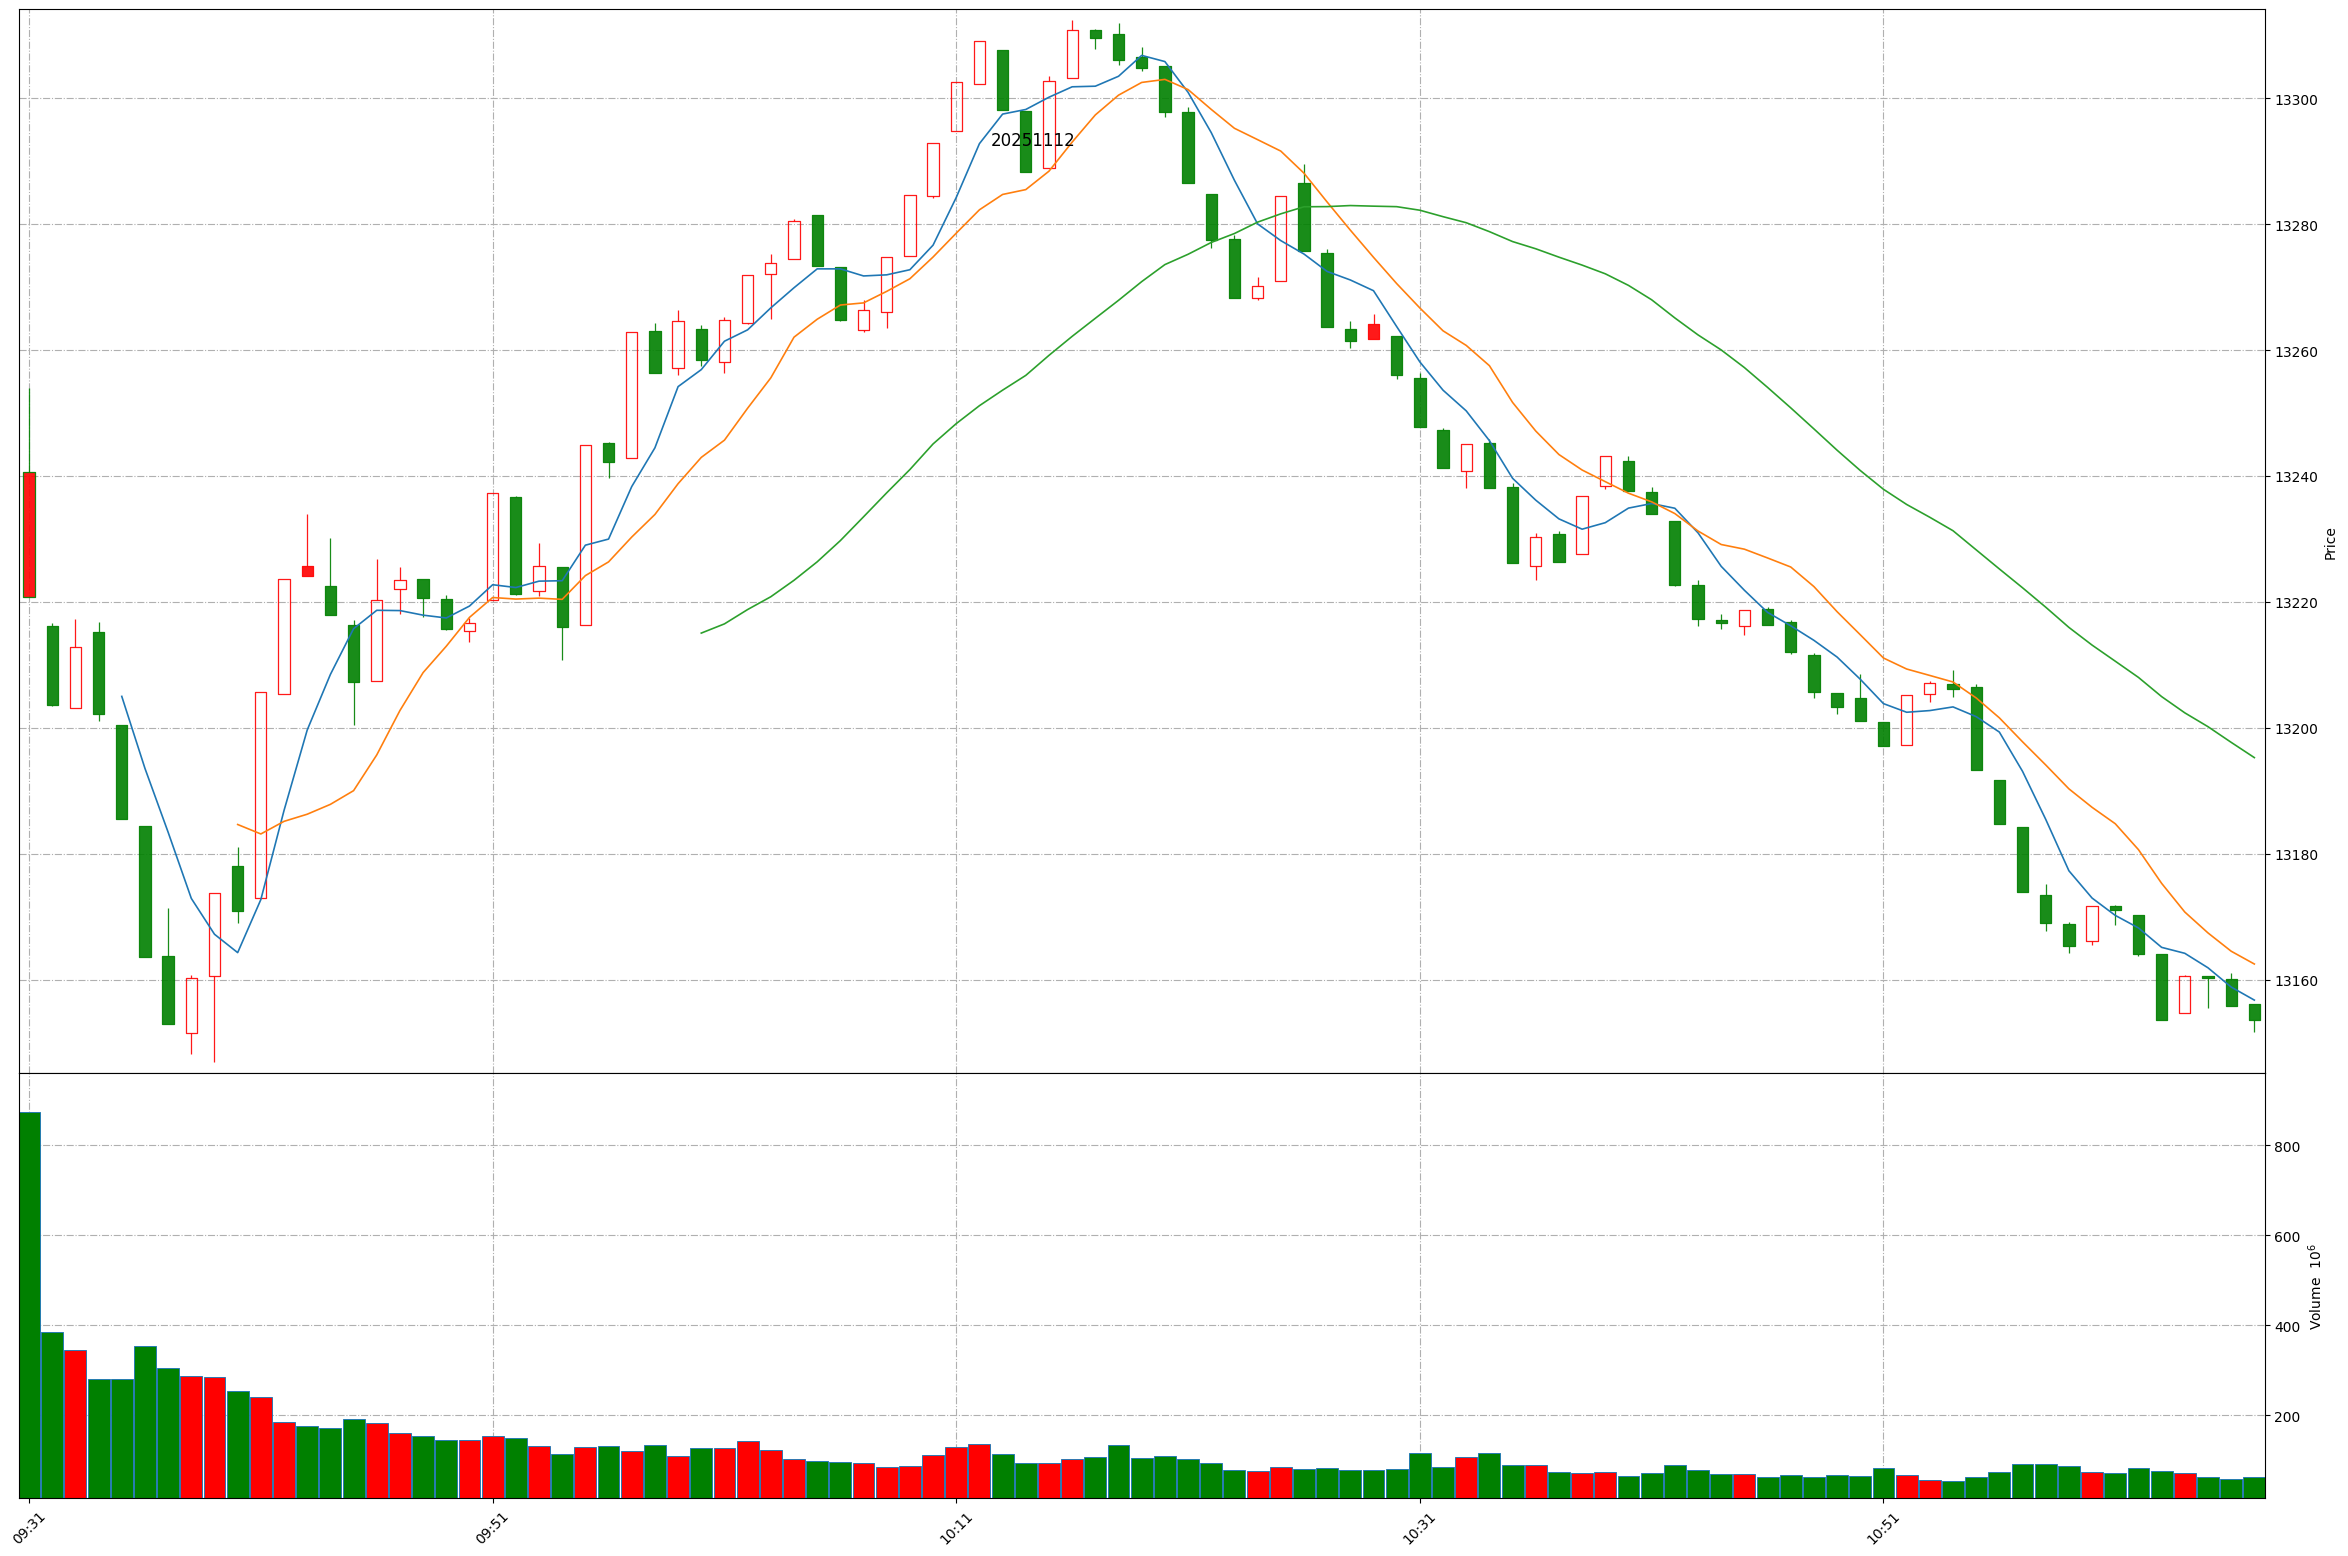
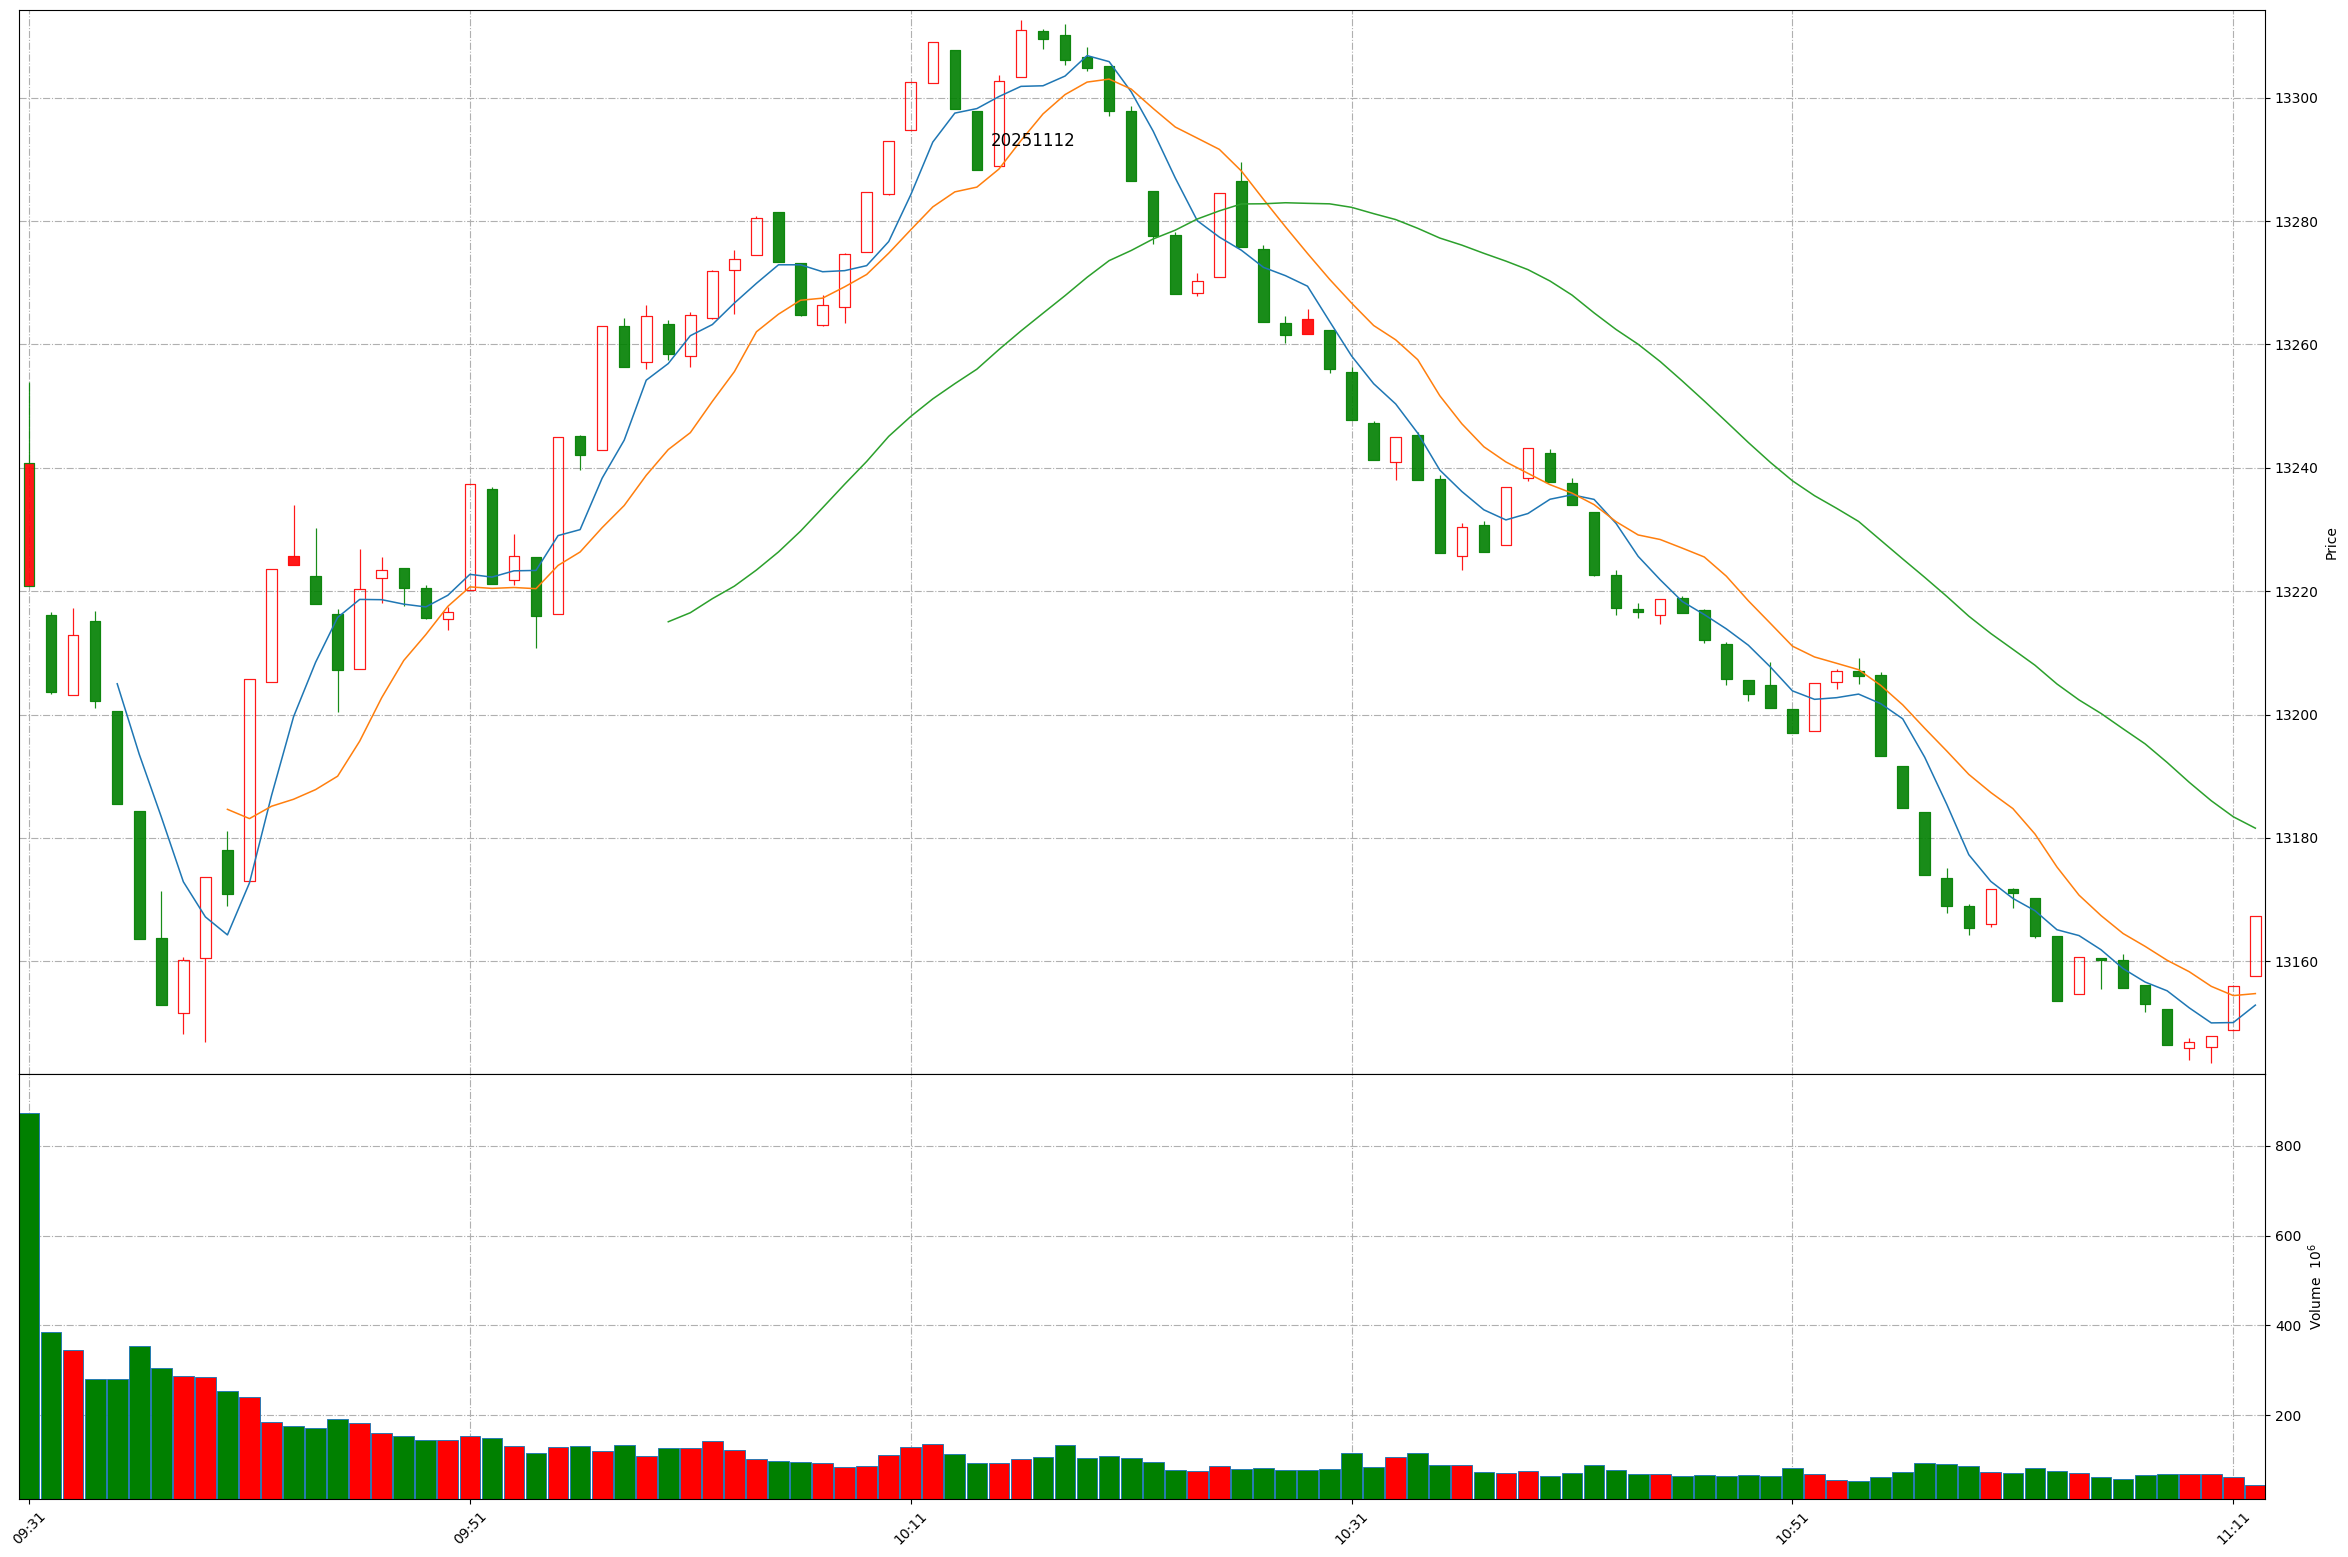
Github action update at 2025-11-12 11:12:05.

diff --git a/README.md b/README.md
@@ -1,11 +1,11 @@
 
 # Daily-A-share-market-quotes 每日 A 股指数（5min 更新）- 20251112
 
-### 上证指数 20251112 11:7
+### 上证指数 20251112 11:12
 ![](./fig/2025/11/20251112-sh000001.png)
 
-### 深证成指 20251112 11:7
+### 深证成指 20251112 11:12
 ![](./fig/2025/11/20251112-sz399001.png)
 
-### 北证50 20251112 11:7
+### 北证50 20251112 11:12
 ![](./fig/2025/11/20251112-bj899050.png)
